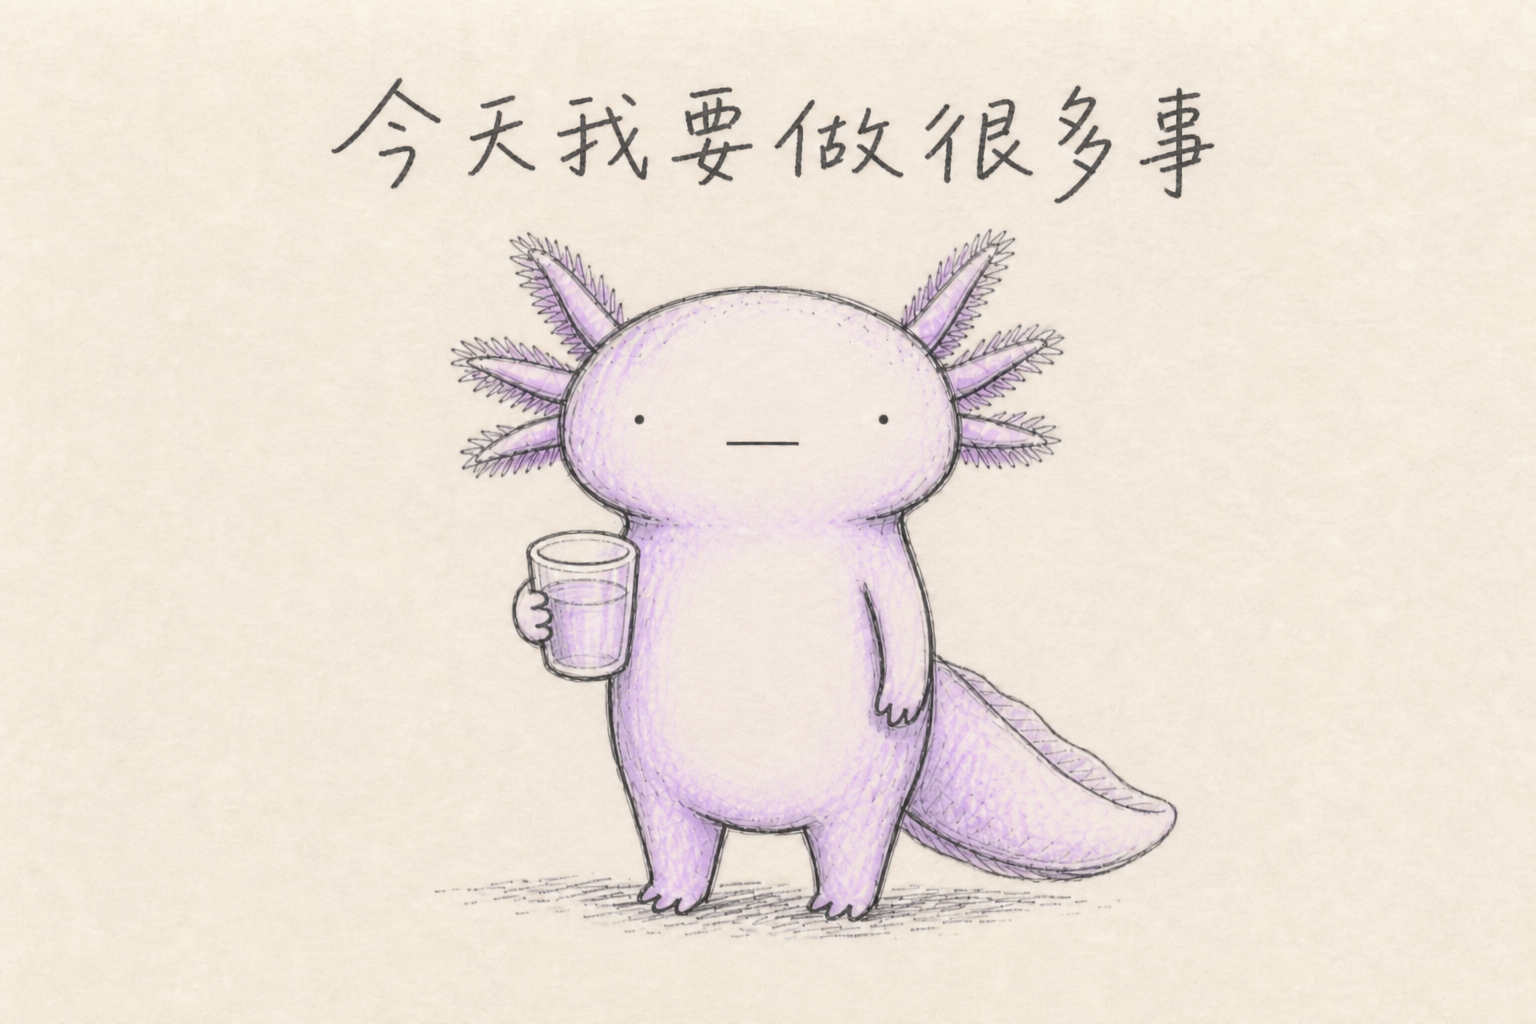
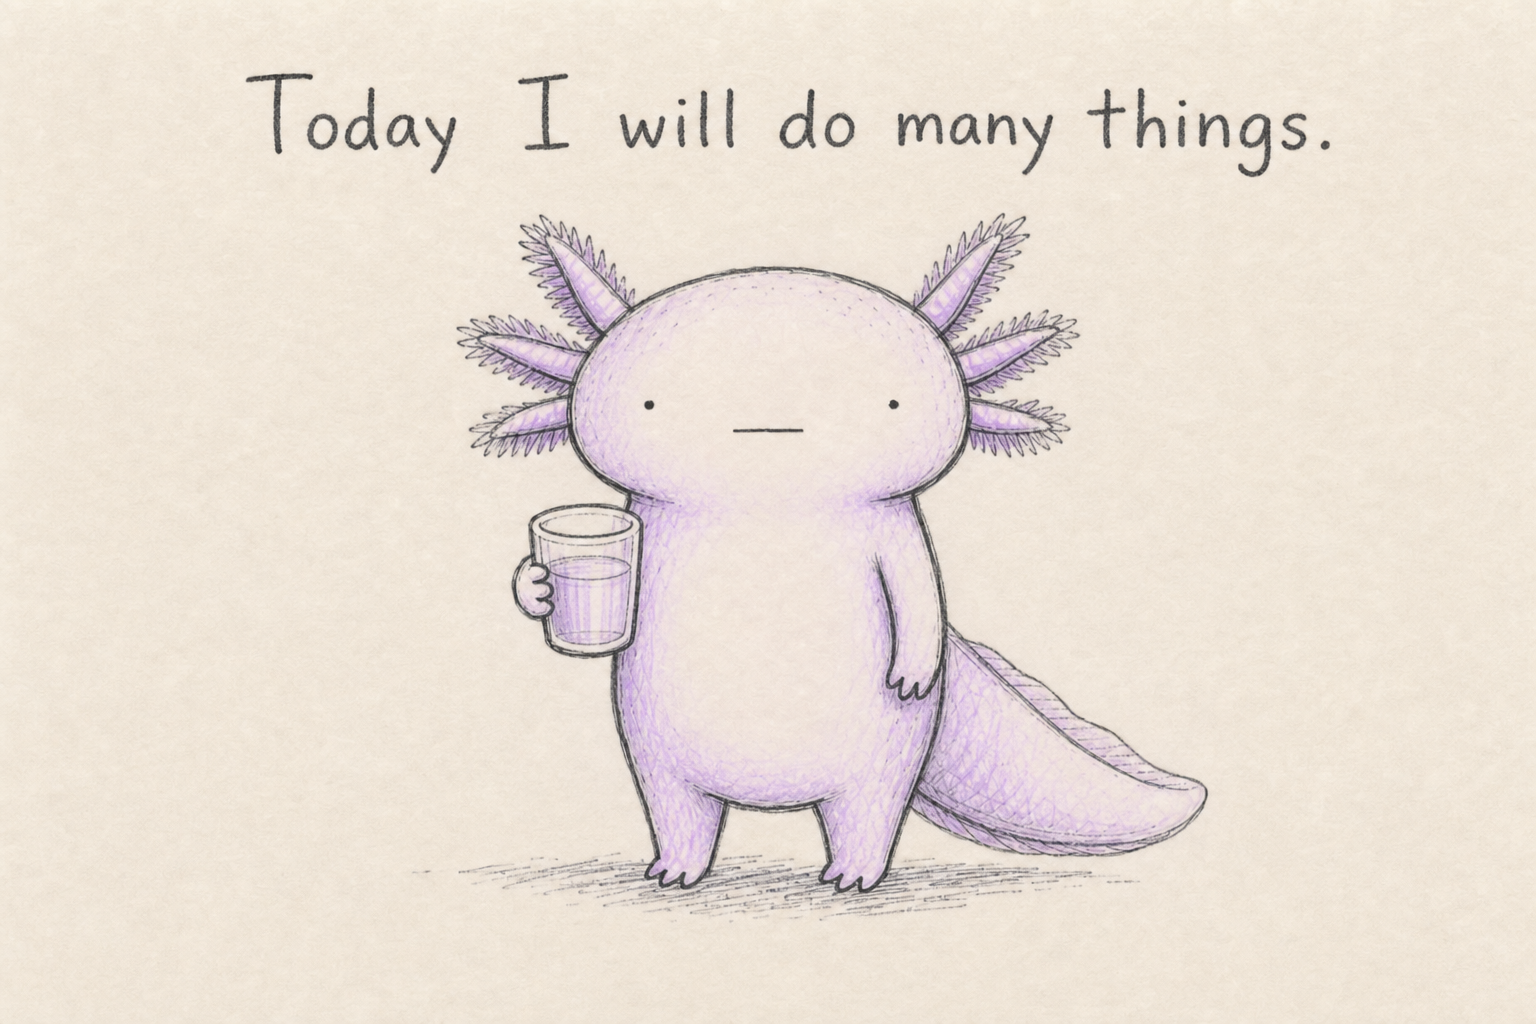
Complete 6 head gills on Day2 slides; Slide1 English only
Document 六角 as 3+3 external gills matching canonical. Regenerate slide1/2 PNGs.

Changed region(s): [[0.2812, 0.2188, 0.7812, 0.9375], [0.1562, 0.0625, 0.875, 0.1875], [0.4688, 0.4062, 0.5312, 0.4375]]

diff --git a/README.md b/README.md
@@ -10,7 +10,7 @@
 ## Axo (mascot)
 
 **標準立姿（主檔）：** [`assets/axo/pen/png/axo-pen-canonical.png`](assets/axo/pen/png/axo-pen-canonical.png) — 畫紙、鎖定眼嘴、**無思考雲**  
-**發呆帖（可選雲）：** `axo-pen-day1.png` · **構圖：** [`docs/axo-layout-template-zh-TW.md`](docs/axo-layout-template-zh-TW.md) · **眼嘴：** [`docs/axo-face-locked-zh-TW.md`](docs/axo-face-locked-zh-TW.md)
+**發呆帖（可選雲）：** `axo-pen-day1.png` · **構圖：** [`docs/axo-layout-template-zh-TW.md`](docs/axo-layout-template-zh-TW.md) · **眼嘴：** [`docs/axo-face-locked-zh-TW.md`](docs/axo-face-locked-zh-TW.md) · **外鰓六角：** [`docs/axo-gills-zh-TW.md`](docs/axo-gills-zh-TW.md)
 
 v2 平面向量（封存）：[`assets/axo/`](assets/axo/)
 

diff --git a/docs/axo-gills-zh-TW.md b/docs/axo-gills-zh-TW.md
@@ -1,0 +1,25 @@
+# Axo 外鰓規格（頭上「六角」）
+
+**六角 = 頭兩側外鰓共 6 支**（左 3 + 右 3），與 [`axo-pen-canonical.svg`](../assets/axo/pen/axo-pen-canonical.svg) 一致。
+
+---
+
+## 必守
+
+| 項目 | 規格 |
+|------|------|
+| 數量 | **每側 3 支**，共 **6 支**（不可缺一支） |
+| 造型 | 羽狀、略分叉的弧線（手繪鋼筆） |
+| 色 | 較身體深的薰衣草描線；可淡紫水彩暈 |
+| 站姿 | 外鰓向上／略向外展 |
+| 趴睡 | 外鰓**放鬆下垂**，但 **6 支仍要畫全** |
+
+## 禁止
+
+- ❌ 每側只畫 1～2 支  
+- ❌ 缺角、斷掉一半  
+- ❌ 與標準立姿外鰓造型完全不同  
+
+---
+
+*臉部見 [`axo-face-locked-zh-TW.md`](./axo-face-locked-zh-TW.md)*

diff --git a/docs/ig-day2-comic-zh-TW.md b/docs/ig-day2-comic-zh-TW.md
@@ -12,8 +12,8 @@
 | 動作 | 手裡拿**一杯水**（或無害小物，如葉子） |
 | 眼 | 豆豆眼**直視前方** |
 | 嘴 | 平嘴 |
-| 手寫字 | **今天我要做很多事。** |
-| English | Today I will do many things. |
+| 外鰓（六角） | 頭兩側 **各 3 支，共 6 支**（見 [`axo-gills-zh-TW.md`](./axo-gills-zh-TW.md)） |
+| 手寫字（圖上） | **Today I will do many things.**（英文） |
 | 檔案 | `png/axo-pen-day2-slide1.png` |
 
 ---

diff --git a/docs/ig-captions-zh-TW.md b/docs/ig-captions-zh-TW.md
@@ -101,7 +101,7 @@ I am doing nothing today, and thinking nothing. 🫠
 | 格 | 畫面 | 手寫字 |
 |----|------|--------|
 | **Slide 1** | 雙腳站立、手拿水杯、豆豆眼直視前方 | 今天我要做很多事。 |
-| **Slide 2** | 1:1 睡姿比例、熟睡 Zzz、杯在旁、英文圖字 | **Thing 1: Nap.** |
+| **Slide 2** | 初版趴睡、**六角完整**、Zzz、英文 | **Thing 1: Nap.** |
 
 ### 繁中 Caption（複製用）
 
